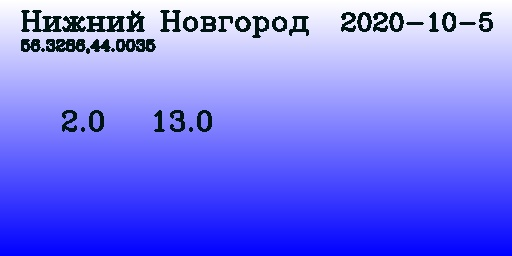
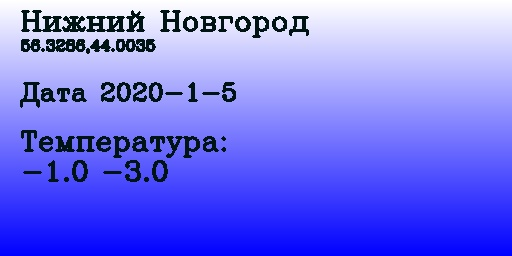
16 задание. Продолжение рисования открытки, доработка кода

Changed region(s): [[0.0312, 0.3125, 0.4688, 0.7188], [0.6562, 0.0312, 0.9688, 0.125]]

diff --git a/lesson_016/ImageMaker.py b/lesson_016/ImageMaker.py
@@ -25,7 +25,7 @@ class ImageMaker:
         self.image = cv2.imread(self.source_path)
         color = (255, 255, 0)
         image_size = self.image.shape
-        line_step = int(image_size[0]/255)
+        line_step = int(image_size[0] / 255)
         for i in range(0, 256):
             # cv2.line(self.image, pt1=(0, i * line_step), pt2=(image_size[1], i * line_step),
             #          color=(255-i/2, 255-i/2, 255-i/2),
@@ -33,7 +33,7 @@ class ImageMaker:
 
             cv2.line(self.image, pt1=(0, i * line_step), pt2=(image_size[1], i * line_step),
                      color=(255, 255 - i, 255 - i),
-                     thickness=int(image_size[0] / 255)) #blue
+                     thickness=int(image_size[0] / 255))  # blue
 
             # cv2.line(self.image, pt1=(0, i * line_step), pt2=(image_size[1], i * line_step),
             #          color=(255 - i, 255, 255),
@@ -43,15 +43,18 @@ class ImageMaker:
             #          color=(255, 255, 255 - i),
             #          thickness=int(image_size[0] / 255)) #cyan
 
-        cv2.putText(self.image, self.weather_dict['location_name'], (20, 30), cv2.FONT_HERSHEY_COMPLEX, 0.9, FONT_COLOR, 2)
-        cv2.putText(self.image, self.weather_dict['coordinates'], (20, 50), cv2.FONT_HERSHEY_COMPLEX, 0.5, FONT_COLOR, 2)
-        cv2.putText(self.image, self.weather_dict['date'], (340, 30), cv2.FONT_HERSHEY_COMPLEX, 0.8, FONT_COLOR, 2)
-        cv2.putText(self.image, self.weather_dict['max_temp'], (150, 130), cv2.FONT_HERSHEY_COMPLEX, 0.9, FONT_COLOR, 2)
-        cv2.putText(self.image, self.weather_dict['min_temp'], (60, 130), cv2.FONT_HERSHEY_COMPLEX, 0.9, FONT_COLOR, 2)
+        cv2.putText(self.image, self.weather_dict['location_name'], (20, 30), cv2.FONT_HERSHEY_COMPLEX, 0.9, FONT_COLOR,
+                    2)
+        cv2.putText(self.image, self.weather_dict['coordinates'], (20, 50), cv2.FONT_HERSHEY_COMPLEX, 0.5, FONT_COLOR,
+                    2)
+        cv2.putText(self.image, 'Дата: ' + self.weather_dict['date'], (20, 100), cv2.FONT_HERSHEY_COMPLEX, 0.8,
+                    FONT_COLOR, 2)
+        cv2.putText(self.image, 'Температура: ', (20, 150), cv2.FONT_HERSHEY_COMPLEX, 0.9, FONT_COLOR, 2)
+        cv2.putText(self.image, self.weather_dict['max_temp'], (20, 180), cv2.FONT_HERSHEY_COMPLEX, 0.9, FONT_COLOR, 2)
+        cv2.putText(self.image, self.weather_dict['min_temp'], (100, 180), cv2.FONT_HERSHEY_COMPLEX, 0.9, FONT_COLOR, 2)
         # cv2.imshow("Image", self.image)
         # cv2.waitKey(0)
         cv2.imwrite(self.recipient_path, self.image)
-
 
 # image = ImageMaker()
 # image.run()

diff --git a/lesson_016/WeatherMaker.py b/lesson_016/WeatherMaker.py
@@ -84,11 +84,21 @@ class WeatherMaker:
         if cloudiness_values:
             cloudiness = max(list(cloudiness_values), key=lambda x: cloudiness_values.count(x))
 
+        if max(temperature_values) > 0:
+            max_temperature = '+' + str(max(temperature_values))
+        else:
+            max_temperature = str(max(temperature_values))
+
+        if min(temperature_values) > 0:
+            min_temperature = '+' + str(min(temperature_values))
+        else:
+            min_temperature = str(min(temperature_values))
+
         weather_dict = {'location_name': self.location_name, 'coordinates': self.coordinates, 'date': self.date,
-                        'max_temp': str(max(temperature_values)), 'min_temp': str(min(temperature_values)),
-                        'pressures': pressures, 'cloudiness': cloudiness,
-                        'humidity': humidity, 'wind_speed': wind_speed, 'cloud_cover': cloud_cover,
-                        'precipitation': precipitation, 'precipitation_hours': precipitation_hours}
+                        'max_temp': max_temperature, 'min_temp': min_temperature, 'pressures': pressures,
+                        'cloudiness': cloudiness, 'humidity': humidity, 'wind_speed': wind_speed,
+                        'cloud_cover': cloud_cover, 'precipitation': precipitation,
+                        'precipitation_hours': precipitation_hours}
         return weather_dict
 
 # if __name__ == "__main__":

diff --git a/lesson_016/01_weather_run.py b/lesson_016/01_weather_run.py
@@ -11,7 +11,7 @@ class WeatherHandler:
 
 
 if __name__ == "__main__":
-    weather = WeatherMaker('Нижний Новгород', '2020-10-5')
+    weather = WeatherMaker('Нижний Новгород', '2020-1-5')
     weather_dict = weather.run()
     image = ImageMaker(weather_dict)
     image.run()
